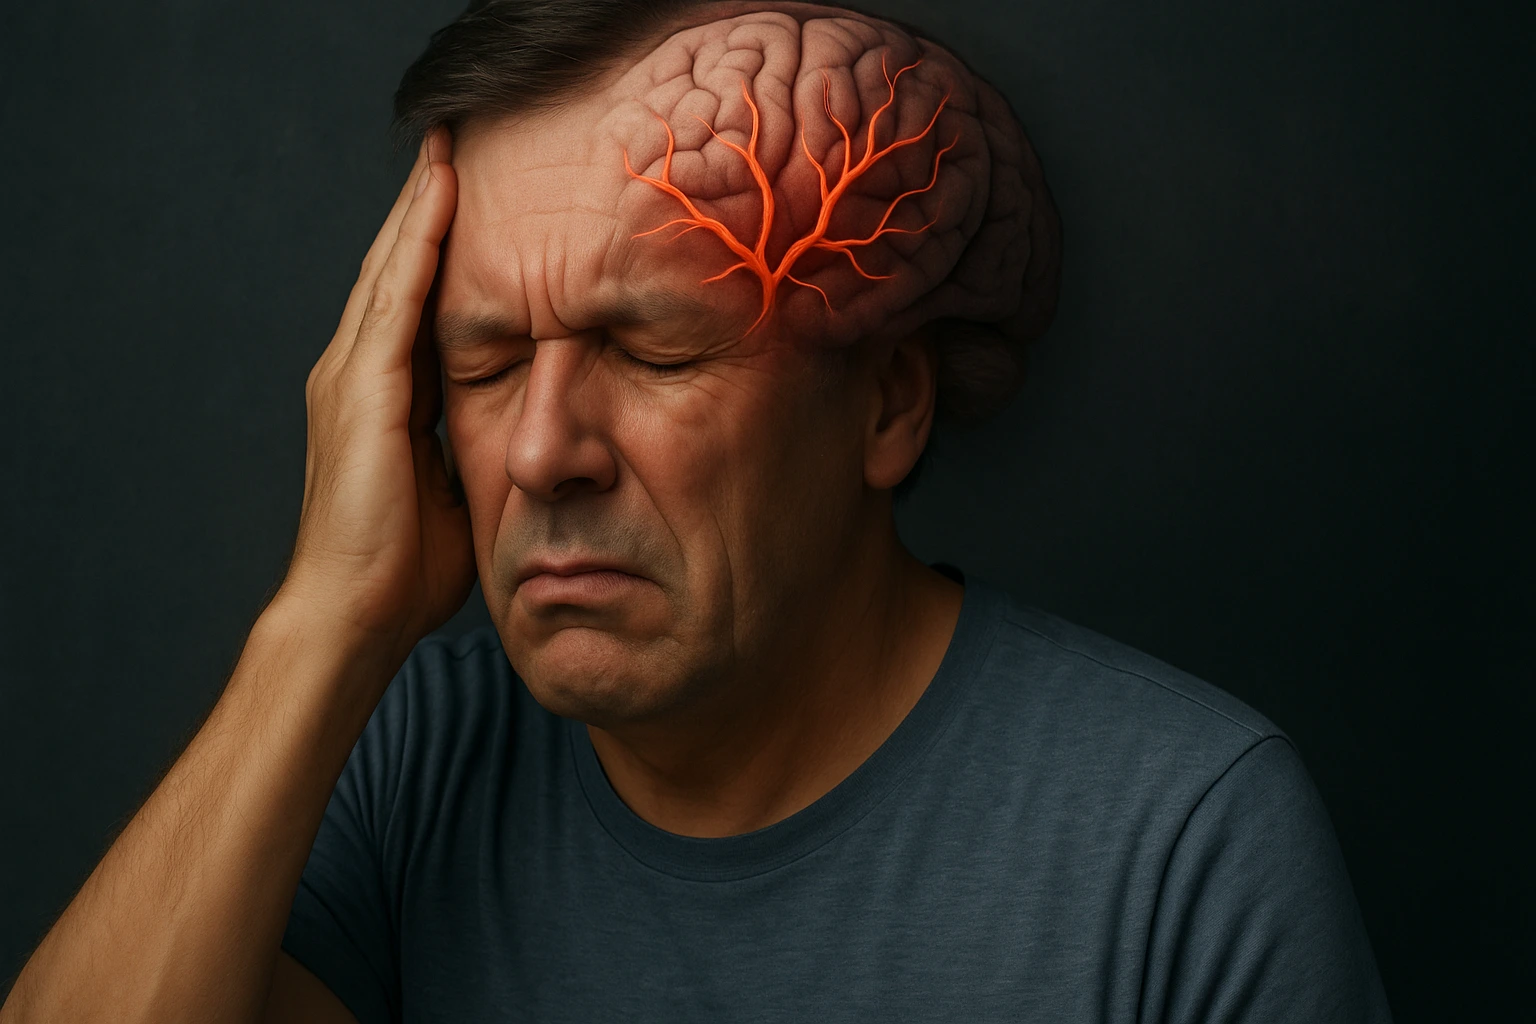
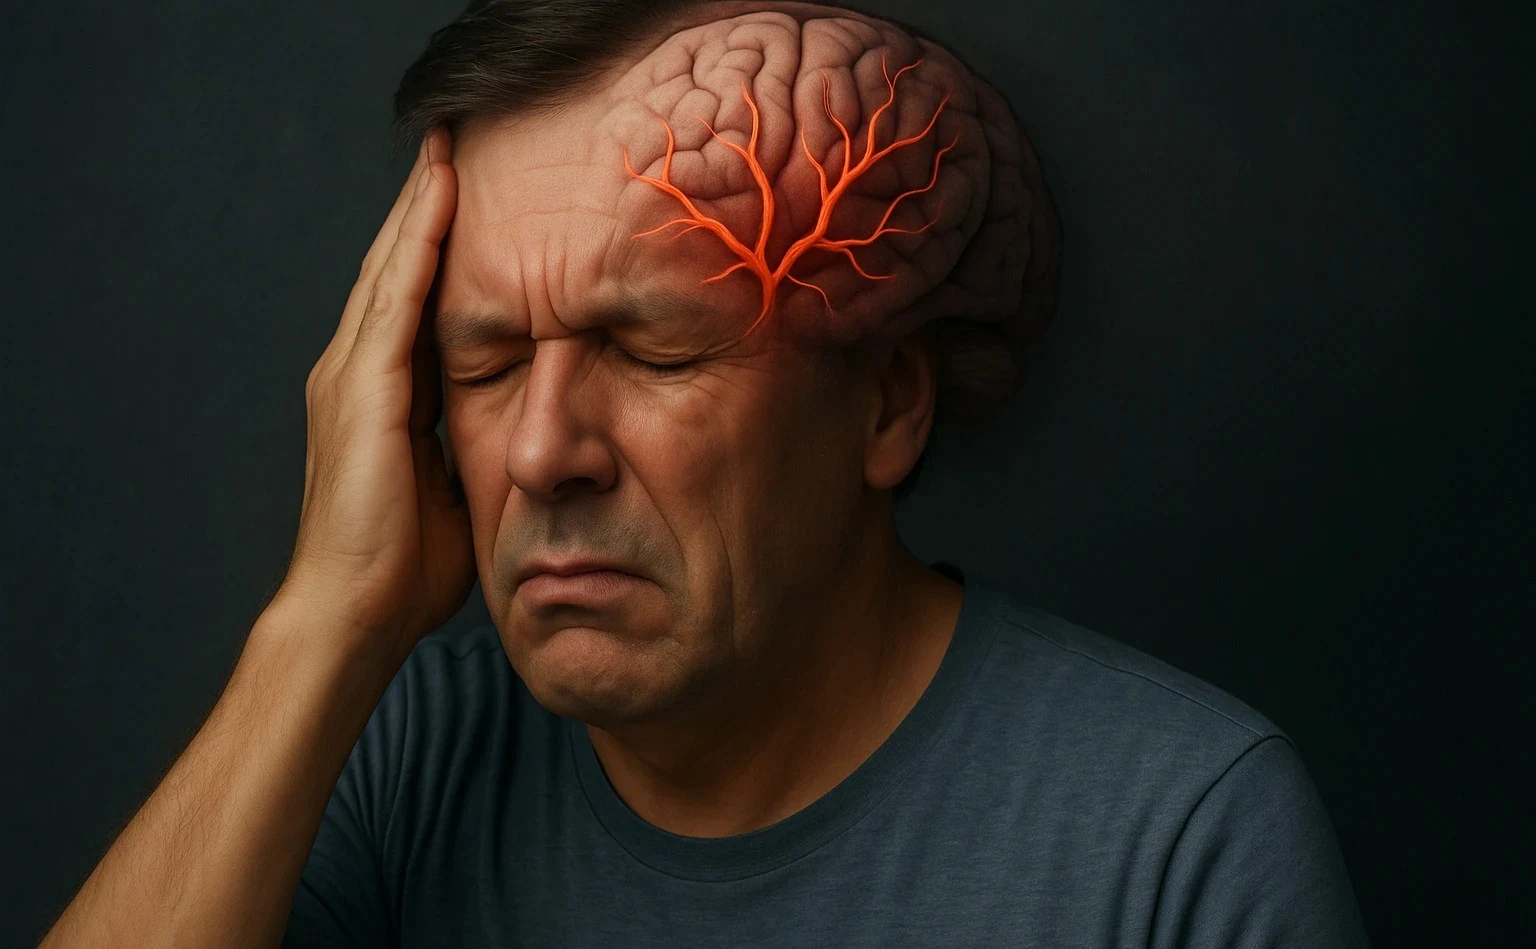
0526

diff --git a/src/routes/about/greeting.jsx b/src/routes/about/greeting.jsx
@@ -19,6 +19,7 @@ function Greeting() {
       color: rgb(0, 51, 161);
       font-weight: 700;
       padding: 0 5%;
+      word-break: keep-all;
 
       @media (max-width: 600px) {
         font-size: 17px;
@@ -31,8 +32,12 @@ function Greeting() {
       }
     }
 
+    .greeting-content {
+      padding-top: 20px;
+    }
+
     .greeting-content > p {
-      color: rgb(103, 101, 101);
+      color: rgb(59, 59, 59);
       font-weight: 400;
 
       @media (max-width: 500px) {
@@ -58,15 +63,20 @@ function Greeting() {
       position: absolute;
       right: 0;
       bottom: 0;
+      font-size: 20px;
+
+      @media (max-width: 1200px) {
+        font-size: 18px;
+      }
     }
     #name {
       color: rgb(0, 51, 161);
       @media (min-width: 1200px) {
-        font-size: calc(0.01vw + 25px);
-
+        font-size: calc(0.05vw + 30px);
+        font-weight: 700;
       }
       @media (max-width: 1200px) {
-        font-size: calc(1vw + 20px);
+        font-size: calc(0.1vw + 22px);
       }
     }
   `
@@ -77,52 +87,38 @@ function Greeting() {
       <div className="greeting-title">
         탁월한 전문성과 최선의 진료로 항상 여러분과 함께하는 홍지만신경과가 되겠습니다  
       </div>
-      <img className="greeting-img" src="/images/about/about1.jpg"/>
+      <img className="greeting-img" src="/images/about/about1.webp"/>
       <div className="greeting-content">
         <p>
-          안녕하세요. 홍지만신경과 대표원장 홍지만입니다. <br/>
-          저는 신경과 전문의로 23년, 그리고 아주대학교병원에서 급성 중증 뇌졸중을 진료하고 
-          학생들과 레지던트, 전임의를 교육한 지 20년이 넘었습니다.
-          이러한 경험을 바탕으로 신경계 질환으로 일상을 잃은 환자들이 다시
-          평범한 삶으로 돌아갈 수 있도록 돕겠다는 사명을 가지고 병원을 개원하였습니다.
+          안녕하세요. 홍지만신경과 대표원장 홍지만입니다.
         </p>
         <p>
-          평범한 11호님은 우리 주변에서 흔히볼수 있는 평범한 뚜벅이를 의미합니다. 
-          이 이름처럼 저희병원은 모든 환자 한분 한분이 다시 평범한 일상으로 돌아갈 수 있도록 최선을 다하겠습니다. 
-          저는 허혈 뇌졸중 및 모야모야질 환(뇌혈관이 점점 좁아지고 가늘어지는 질환)뿐 아니라 
-          두개내혈관동맥경화 및 뇌혈관-조직 보호와 관련된 뇌졸중 환자의 새로운 치료법에 관하여 끊임 없이 연구해 왔습니다. 
-          이 지식과 경험을 지역사회 환자들을 위해 활용하겠습니다. 
-          또한, 두통, 어지럼증, 실신, 뇌전증 등 다양한 신경계 질환에 대해 정확한 검사와 적절한 치료를 제공합니다.
+          저는 어느덧 신경과 전문의로 23년 동안 활동하였으며 허혈 뇌졸중 및 모야모야 질환(뇌혈관이 점점 좁아지고 가늘어지는 질환)뿐 아니라 두개내혈관동맥경화 및 뇌혈관-조직 보호와 관련된 뇌졸중 환자의 새로운 치료법에 관하여 끊임없이 연구해 왔습니다. 
+          또한 아주대학교병원에서 급성 중증 뇌졸중을 진료하고 학생들과 레지던트, 전임의를 교육한지도 20년이 넘었습니다. 
+          의료현장에서의 경험을 바탕으로, 신경계 질환으로 일상을 잃은 환자들이 다시 평범한 삶으로 돌아갈 수 있도록 돕겠다는 사명을 가지고 병원을 개원하였습니다. 
+          제가 오랜기간 쌓은 지식과 경험을 지역사회의 환자분들을 위해 활용하려고 합니다.
         </p>
         <p>
-          저희 병원은 각 층마다 전문적인 테마로 구성되어 있습니다:
-          **"11호님의 산책"**, **11호님의 희망"**, 그리고 **"11호님 을 위한 배려"**. 
-          이러한 공간은 환자와 보호자 모두에게 편안함과 최고의 치료를 제공하도록 설계되었습니다. 
-          특히, 급성 뇌졸중 환자를 위해 **대학병원 수준의 집중치료실과 영상실**을 갖추고 있어, 
-          초기 진단부터 치료까지 한곳에서 신속하게 진행할 수 있습니다. 
-          이를 통해 **신경학적 악화, 섬망, 내과적 합병증**과 같은 위험 요소를 최소화하고 환자의 치료 결과를 크게 향상시킬 수 있습니다. 
-          또한, 환자의 상태에 따른 **맞춤형 재활-운동프로그램**을 제공 하며, 보호자에게도 자세히 설명하며 정확한 진단과 치료를 제공합니다. 
-          더불어, **모야모야병 및 유사 질환을 위한 전문 클리닉**을 운영하며, 정밀한 진단 과치료를 제공합니다. 
-          제가 직접 개발한 **최소침습시술**은 전신마취와 개두술 없이 국소마취로 진행되며, 
-          급성기에 상태가 불안정한 환자들에게 큰 도움을 주었습니다. 
-          이 시술은 지금까지 많은 환자에서 혈관 문합에 성공하며 효과를 입증하고 
-          세계적인 저널에 다수 게재하여 한국의료의 위상을 올리기도 했습니다.
+          <strong>평범한 11호님을 위한 꿈</strong>은 뇌혈관 질환으로 일상을 잃은 환자들이 치료를 마치고 병원 문을 나설때 11자로 일어서서 평범한 생활로 돌아갈 수 있도록 하자는 의미를 지니고 있습니다. 
+          이는 제가 23년간 신경과 전문의로 활동하면서 늘 마음속에 품고 있는 핵심 가치이자, 저희 병원의 핵심 가치이기도 합니다. 
+          병원 1층의 테마는 <strong>11호님의 산책</strong>으로, 운동 및 이완센터가 위치하고 있어 환자의 상태에 따른 <strong>맞춤형 재활 · 운동프로그램</strong>을 제공해드리고 있습니다. 
+          2층의 테마는 <strong>11호님의 희망</strong>으로, 급성 뇌졸중 환자를 위해 <strong>대학병원 수준의 집중치료실과 영상실</strong>을 갖추고 있어, 초기 진단부터 치료까지 신속하게 진행할 수 있습니다. 
+          이를 통해 신경학적 악화, 섬망, 내과적 합병증과 같은 위험 요소를 최소화하고 환자의 치료 결과를 크게 향상시킬 수 있습니다. 
+          더불어, <strong>모야모야병 및 유사 질환을 위한 전문 클리닉</strong>을 운영하며, 정밀한 진단과 치료를 제공합니다. 
+          제가 직접 개발한 <strong>최소침습시술</strong>은 전신마취와 개두술 없이 국소마취로 진행되며, 급성기에 상태가 불안정한 환자들에게 큰 도움을 주었습니다. 
+          이 시술은 지금까지 많은 혈관 문합에 성공하여 그 효과를 입증하였으며 세계적인 저널에 다수 게재되어 한국의료의 위상을 올리기도 했습니다. 
+          3층의 테마는 <strong>11호님을 위한 배려</strong>로 24시간, 연중무휴로 운영되는 입원실이 위치하고 있습니다.
         </p>
         <p>
-          신경계 질환에 대한 자세한 평가를 위해서 뇌혈관생리검사 (내막, 중막 검사), 
-          뇌혈류초음파, 경동맥초음파, 맥파검사, 동맥경 화도검사, 혈압표기 검사, 연속혈압검사, 
-          안저혈관검사, 뇌혈류기반기립경사검사, 비디오안진검사, 자율신경검사, 
-          뇌건강 혈액 및 DNA 검사 등이 시행되고 있으며, 최신형 CT 및 MRI를 통해 여러분께 다가가겠습니다.
+          보다 정확한 진단을 위해 저희 병원은 준 대학병원 급의 검사시설을 갖추고 있습니다. 
+          뇌혈관생리검사(내막, 중막 검사), 뇌혈류초음파, 경동맥초음파, 맥파검사, 동맥경 화도검사, 혈압표기 검사, 연속혈압검사, 안저혈관검사, 뇌혈류기반기립경사검사, 비디오안진검사, 자율신경검사, 혈액 및 DNA 검사 등이 시행되고 있으며, 최신형 CT 및 MRI를 갖추고 있어 환자의 상태를 정확하고 신속하게 파악할 수 있습니다.
         </p>
         <p>
-          저희만의 철학을 바탕으로 저와 직원들은 환자분들의 작은 기적을 함께 만들어 가고자 합니다. 
-          환자 한 분 한 분이 다시 평범한 일상으로 돌아가는 그날까지 최선을 다하겠습니다. 
-          언제든지 병원을 방문하시거나 전화로 문의 주시면 친절히 상담해 드리겠습니다.<br/>
+          환자 한 분 한 분이 다시 평범한 일상으로 돌아가는 그날까지 최선을 다하겠습니다. 언제든지 병원을 방문하시거나 전화로 문의 주시면 친절히 상담해 드리겠습니다.
         </p>
         <p>감사합니다.</p>
         <div className="greeting-end">
           신경과 전문의 &nbsp; <span id="name">홍지만</span>
-          <img/>
         </div>
       </div>
     </StyledGreeting>

diff --git a/src/routes/about.jsx b/src/routes/about.jsx
@@ -27,7 +27,8 @@ function Destination() {
       color: rgb(0, 51, 161);
       padding-top: 30px;
       margin: 0;
-      font-size: calc(20px + 0.05vw);
+      font-size: calc(22px + 0.05vw);
+      font-weight: 800;
     }
     & > p {
       font-size: calc(15px + 0.03vw);
@@ -42,7 +43,7 @@ function Destination() {
         color: rgb(0, 51, 161);
         padding-top: 25px;
         margin: 0;
-        font-size: 16px;
+        font-size: 21px;
       }
       & > p {
         font-size: 14px;
@@ -62,7 +63,7 @@ function Destination() {
         <p><span>KBS 수원센터 / 수원고용복지플러스센터, 동수원사거리</span>정거장 하차</p>
         
       </StyledDestination>
-      <div style={{paddingTop: "60px"}}>
+      <div style={{paddingTop: "40px"}}>
         <Navermap/>
       </div>
     </>

diff --git a/src/data/navlist.js b/src/data/navlist.js
@@ -11,13 +11,13 @@ export const navList = [
     name: "특화센터",
     link: "/center",
     detail: ["뇌졸중 특화센터", "모야모야 특화센터", "두통 · 어지럼증 센터", "뇌졸중 · 치매 통합 예방센터", "운동센터", "이완센터"],
-    topImg: "/images/pageTop/top3.jpg"
+    topImg: "/images/pageTop/top2.webp"
   },
   {
     name: "진료분야",
     link: "/appointment",
     detail: ["급성뇌졸중", "모야모야", "두통", "어지럼", "현훈", "뇌졸중 예방치료", "치매 예방치료", "노화 예방치료", "운동 치료", "이완 치료"],
-    topImg: "/images/pageTop/top2.webp"
+    topImg: "/images/pageTop/top3.webp"
   },
   {
     name: "검사항목",

diff --git a/src/components/pageContainer.jsx b/src/components/pageContainer.jsx
@@ -21,7 +21,7 @@ const zoomIn = keyframes`
 `;
 
 const StyledPagePicture = styled.div`
-  height: 32vh;
+  height: clamp(100px, 22vh, 200px);
   position: relative;
   overflow: hidden;
 
@@ -49,7 +49,11 @@ const StyledPagePicture = styled.div`
     font-weight: 600;
 
     @media (max-width: 600px) {
-      font-size: calc(18px + 1vw);
+      font-size: calc(20px + 1vw);
+    }
+
+    @media (max-width: 1200px) {
+      width: 92%;
     }
   }
 `;

diff --git a/src/routes/community/reserve.jsx b/src/routes/community/reserve.jsx
@@ -10,7 +10,7 @@ const Reservecontent = styled.div`
     font-weight: 500;
     font-size: 17px;
     line-height: 30px;
-    padding-bottom: 5vh;
+    padding-bottom: 10px;
   }
 
   .line-deco {
@@ -76,7 +76,7 @@ const Reservecontent = styled.div`
     .reserve-title > p {
       font-weight: 600;
       font-size: 15px;
-      padding-bottom: 5vh;
+      padding-bottom: 10px;
       line-height: 25px;
     }
     .reserve-input {

diff --git a/src/routes/appointment.jsx b/src/routes/appointment.jsx
@@ -37,6 +37,7 @@ const Appointmentcontent = styled.div`
     font-size: 1.2em;
     margin-left: 1vw;
     text-align: center;
+    line-height: 32px;
   }
 
   @media (max-width: 600px) {
@@ -54,6 +55,7 @@ const Appointmentcontent = styled.div`
       font-size: 14.5px;
       margin-left: 1vw;
       text-align: center;
+      line-height: 30px;
     }
   }
 `

diff --git a/src/components/map.css b/src/components/map.css
@@ -2,7 +2,7 @@
 
   #map {
     width: 100%;
-    aspect-ratio: 1;
+    aspect-ratio: 1.6;
   }
 }
 
@@ -10,6 +10,6 @@
 
   #map {
     width: 100%;
-    aspect-ratio: 1.5;
+    aspect-ratio: 1.6;
   }
 }
